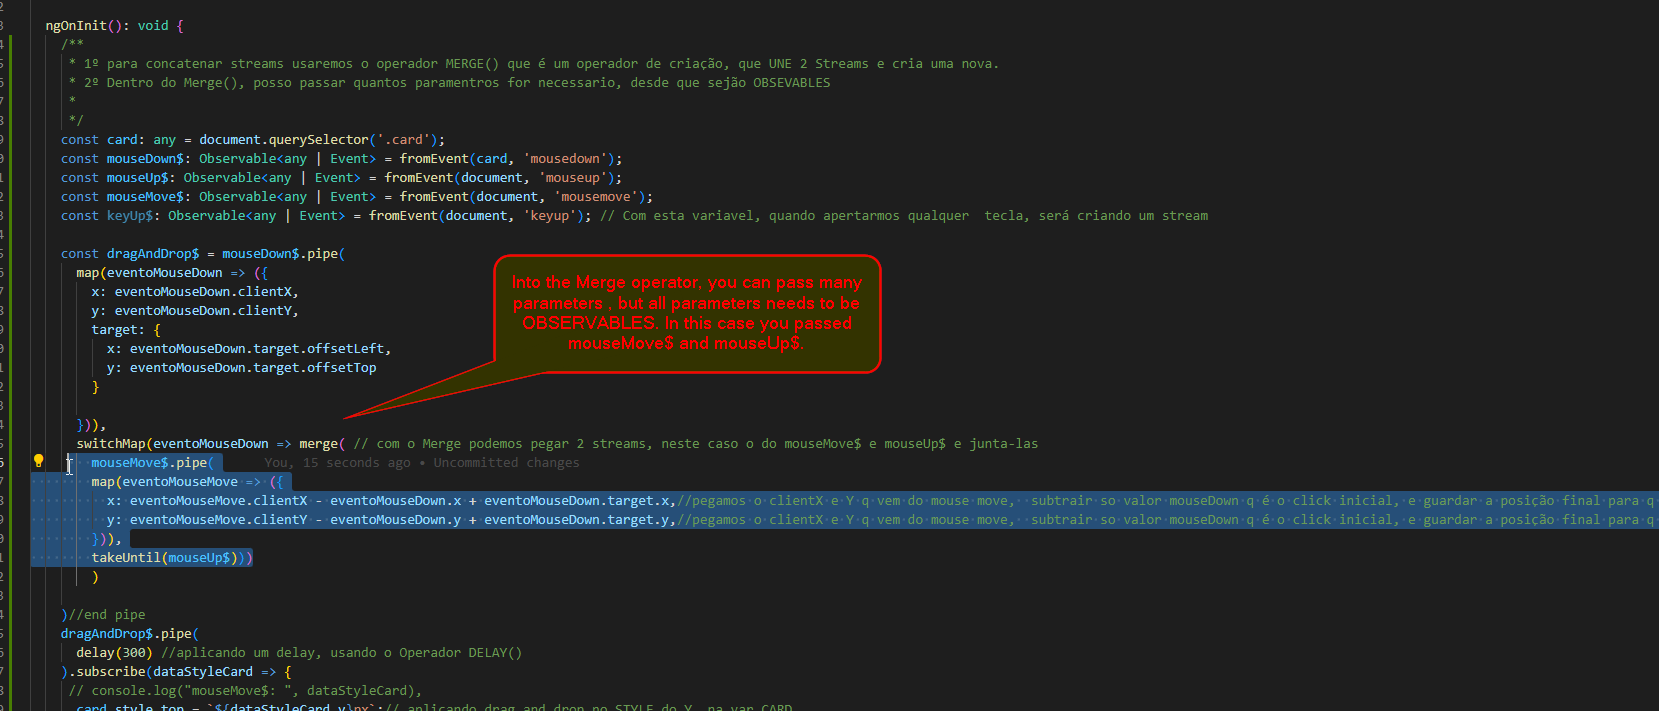
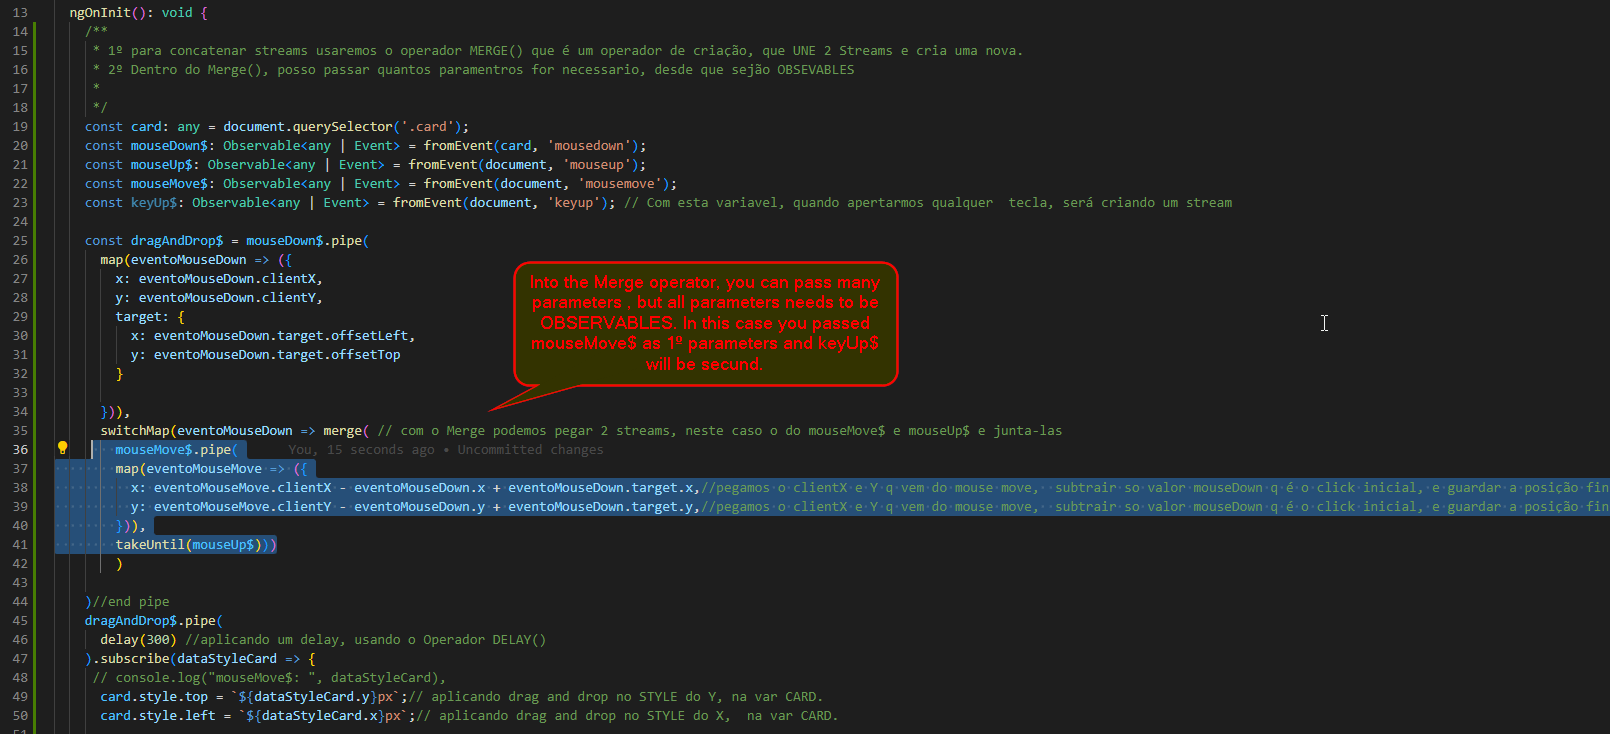
criando interceptor

Changed region(s): [[0.0, 0.0, 1.0, 1.0], [0.528, 0.557, 0.559, 0.5879]]

diff --git a/angular_training/src/app/observables-e-RXJS/contat-streams/contat-streams.component.ts b/angular_training/src/app/observables-e-RXJS/contat-streams/contat-streams.component.ts
@@ -1,14 +1,16 @@
-import { Component, OnInit } from '@angular/core';
-import { Observable, map, takeUntil, switchMap, delay,  merge, filter, fromEvent, tap, skip } from 'rxjs';
+import { AfterContentInit, Component, OnInit } from '@angular/core';
+import { Observable, map, takeUntil, switchMap, delay, merge, filter, fromEvent, tap, skip } from 'rxjs';
 
 @Component({
   selector: 'app-contat-streams',
   templateUrl: './contat-streams.component.html',
   styleUrls: ['../drag-and-drop/drag-and-drop.component.css']
 })
-export class ContatStreamsComponent implements OnInit {
-
-  constructor() { }
+export class ContatStreamsComponent implements OnInit, AfterContentInit {
+  bodyParent!: any;
+  constructor() {
+    this.bodyParent = document.querySelector('.parent');
+   }
 
   ngOnInit(): void {
     /**
@@ -22,9 +24,15 @@ export class ContatStreamsComponent implements OnInit {
      * 6º  document.body.insertBefore(card.cloneNode(true), card ), Pego o DOM uso insertBefore e adciono um novo antes dele.
      * 7º Skip() é fazer com estes evento KeyUp$ Não chegem no subscribe. Ou seja ele Ignora o numero de emissões que ele recebe como paramentro.
      *  Caso não passe valores, ele ignora TODAS as emissões.
-     *
-     *
-     */
+    *
+    *
+    */
+
+  }
+
+  ngAfterContentInit(): void {
+
+    // console.log(this.divParent);
     const card: any = document.querySelector('.card');
     const mouseDown$: Observable<any | Event> = fromEvent(card, 'mousedown');
     const mouseUp$: Observable<any | Event> = fromEvent(document, 'mouseup');
@@ -43,31 +51,37 @@ export class ContatStreamsComponent implements OnInit {
       })),
       switchMap(eventoMouseDown => merge( // com o Merge podemos pegar 2 streams, neste caso o do mouseMove$ e mouseUp$ e junta-las
         mouseMove$.pipe(
-        map(eventoMouseMove => ({
-          x: eventoMouseMove.clientX - eventoMouseDown.x + eventoMouseDown.target.x,//pegamos o clientX e Y q vem do mouse move,  subtrair so valor mouseDown q é o click inicial, e guardar a posição final para q o elemento não retorne para posição inicial.
-          y: eventoMouseMove.clientY - eventoMouseDown.y + eventoMouseDown.target.y,//pegamos o clientX e Y q vem do mouse move,  subtrair so valor mouseDown q é o click inicial, e guardar a posição final para q o elemento não retorne para posição inicial.
-        })),
-        takeUntil(mouseUp$))
+          map(eventoMouseMove => ({
+            x: eventoMouseMove.clientX - eventoMouseDown.x + eventoMouseDown.target.x,//pegamos o clientX e Y q vem do mouse move,  subtrair so valor mouseDown q é o click inicial, e guardar a posição final para q o elemento não retorne para posição inicial.
+            y: eventoMouseMove.clientY - eventoMouseDown.y + eventoMouseDown.target.y,//pegamos o clientX e Y q vem do mouse move,  subtrair so valor mouseDown q é o click inicial, e guardar a posição final para q o elemento não retorne para posição inicial.
+          })),
+          takeUntil(mouseUp$)),
+        keyUp$.pipe(
+          filter(key => key.which === 32),
+          tap(keySpace => {
+
+            // this.divParent.parentNode.insertBefore(card.cloneNode(true), card);
+            // this.divParent.parentNode.insertBefore(card.cloneNode(true), card);
 
 
+          // document.parentNode?.insertBefore(card.cloneNode(true), card);
+            //  document.body.insertAdjacentElement(card.cloneNode(true), card);
+          //  document.body.insertAdjacentElement('afterend', card);
+            console.log("card", document.body.getElementsByTagName('app-root').namedItem('body'));
+          }),
+          skip(10)
         )
-        ))//end pipe
-        // keyUp$.pipe(
-        //   filter(key => key.which === 32 ),
-        //   tap(keySpace => {
-        //     document.body.insertBefore(card.cloneNode(true), card )
-        //   }),
-        //   skip()
-        //) //end pipe
+      )
+      )
+    );
 
     dragAndDrop$.pipe(
-      delay(300) //aplicando um delay, usando o Operador DELAY()
+      // delay(300) //aplicando um delay, usando o Operador DELAY()
     ).subscribe(dataStyleCard => {
-     // console.log("mouseMove$: ", dataStyleCard),
+      // console.log("mouseMove$: ", dataStyleCard),
       card.style.top = `${dataStyleCard.y}px`;// aplicando drag and drop no STYLE do Y, na var CARD.
       card.style.left = `${dataStyleCard.x}px`;// aplicando drag and drop no STYLE do X,  na var CARD.
 
     });
   }
-
 }

diff --git a/angular_training/src/app/app.module.ts b/angular_training/src/app/app.module.ts
@@ -1,3 +1,4 @@
+import { AuthInterceptorService } from './observables-e-RXJS/auth-interceptor.service';
 import { NgModule } from '@angular/core';
 import { BrowserModule } from '@angular/platform-browser';
 
@@ -9,7 +10,7 @@ import { NotFoundComponent } from './not-found/not-found.component';
 import { AboutComponent } from './about/about.component';
 import { ForecastComponent } from './forecast/forecast.component';
 import { FormsModule, ReactiveFormsModule } from '@angular/forms';
-import { HttpClientModule } from '@angular/common/http';
+import { HTTP_INTERCEPTORS, HttpClientModule } from '@angular/common/http';
 import { ForecastingCityComponent } from './forecast/forecasting-city/forecasting-city.component';
 import { FormsComponent } from './forms/forms.component';
 import { LoginComponent } from './login/login/login.component';
@@ -19,11 +20,11 @@ import { HotToastModule } from '@ngneat/hot-toast';
 import { MyProfileComponent } from './login/my-profile/my-profile/my-profile.component';
 
 /***********************Importações do FireBase ********************/
-import { initializeApp,provideFirebaseApp } from '@angular/fire/app';
-import { provideAuth,getAuth } from '@angular/fire/auth';
-import { provideStorage, getStorage}   from '@angular/fire/storage'
+import { initializeApp, provideFirebaseApp } from '@angular/fire/app';
+import { provideAuth, getAuth } from '@angular/fire/auth';
+import { provideStorage, getStorage } from '@angular/fire/storage'
 import { provideFirestore, getFirestore } from '@angular/fire/firestore';
-import { provideDatabase,getDatabase } from '@angular/fire/database';
+import { provideDatabase, getDatabase } from '@angular/fire/database';
 
 
 
@@ -59,10 +60,15 @@ import { provideDatabase,getDatabase } from '@angular/fire/database';
 
     /**Após a instação do NgNeat/tost, fui acrecentado aqui nos imports  */
     HotToastModule.forRoot(),
-      provideDatabase(() => getDatabase())
+    provideDatabase(() => getDatabase())
 
   ],
-  providers: [],
+  /**
+   * 1º provide: HTTP_INTERCEPTORS será um token injetado pelo Angular,
+   * 2º useClass:  A classe do serviço onde o Interceptor irá atuar.
+   * 3º multi: Abilita a possiblidade de ter mais de 1 interceptor
+   */
+  providers: [{ provide: HTTP_INTERCEPTORS, useClass: AuthInterceptorService, multi: true }],
   bootstrap: [AppComponent]
 })
 export class AppModule { }

diff --git a/angular_training/src/app/observables-e-RXJS/contat-streams/contat-streams.component.html b/angular_training/src/app/observables-e-RXJS/contat-streams/contat-streams.component.html
@@ -1,21 +1,25 @@
+<body class="parent">
 <div class="container">
   <div class="row">
     <div class="col-xs-12">
       <div class="d-grid gap-2 d-md-flex justify-content-md-end">
-        <button type="button" class="btn btn-outline-dark" routerLink="/rxjs-observables">Back Rxjs and Observable</button>
+        <button type="button" class="btn btn-outline-dark" routerLink="/rxjs-observables">Back Rxjs and
+          Observable</button>
       </div>
     </div>
   </div>
-  <div class="row row-card ">
-    <h2 class="title">Concat Streams using RXJS.</h2>
-    <h2>Create a drad and drop card when you hit any Key, you will clone the card.</h2>
-    <div class="col-xs-12">
-      <div class="card"></div>
 
+    <div class="row row-card ">
+      <h2 class="title">Concat Streams using RXJS.</h2>
+      <h2>Create a drad and drop card when you hit any Key, you will clone the card.</h2>
+      <div class="col-xs-12 parent">
+        <div class="card"></div>
+
+      </div>
     </div>
-  </div>
-  <div class="row">
-    <div class="col-xs-12">
+
+    <!-- <div class="row">
+      <div class="col-xs-12">
     </div>
     <div class="col-xs-12 picture">
       <h3>Drag and drop Start.html File</h3>
@@ -29,6 +33,7 @@
 
 
 
+    </div> -->
   </div>
-</div>
 
+</body>

diff --git a/angular_training/src/app/observables-e-RXJS/auth-interceptor.service.ts b/angular_training/src/app/observables-e-RXJS/auth-interceptor.service.ts
@@ -1,0 +1,20 @@
+import { HttpEvent, HttpHandler, HttpInterceptor, HttpRequest } from '@angular/common/http';
+import { Injectable } from '@angular/core';
+import { Observable } from 'rxjs';
+
+@Injectable({
+  providedIn: 'root'
+})
+
+export class AuthInterceptorService implements HttpInterceptor {
+
+  constructor() { }
+  intercept(req: HttpRequest<any>, next: HttpHandler): Observable<HttpEvent<any>> {
+    console.log("Request is on its way");
+    return next.handle(req);
+  }
+
+
+
+  
+}

diff --git a/angular_training/src/app/observables-e-RXJS/drag-and-drop/drag-and-drop.component.css b/angular_training/src/app/observables-e-RXJS/drag-and-drop/drag-and-drop.component.css
@@ -81,3 +81,8 @@ img {
   position: absolute; /*para movimentarmos ele*/
   box-shadow: #0a0202 1px 1px 55px; /*realçando*/
 }
+
+.parent {
+  margin-bottom: 70vh;
+  background-color: transparent;
+}
